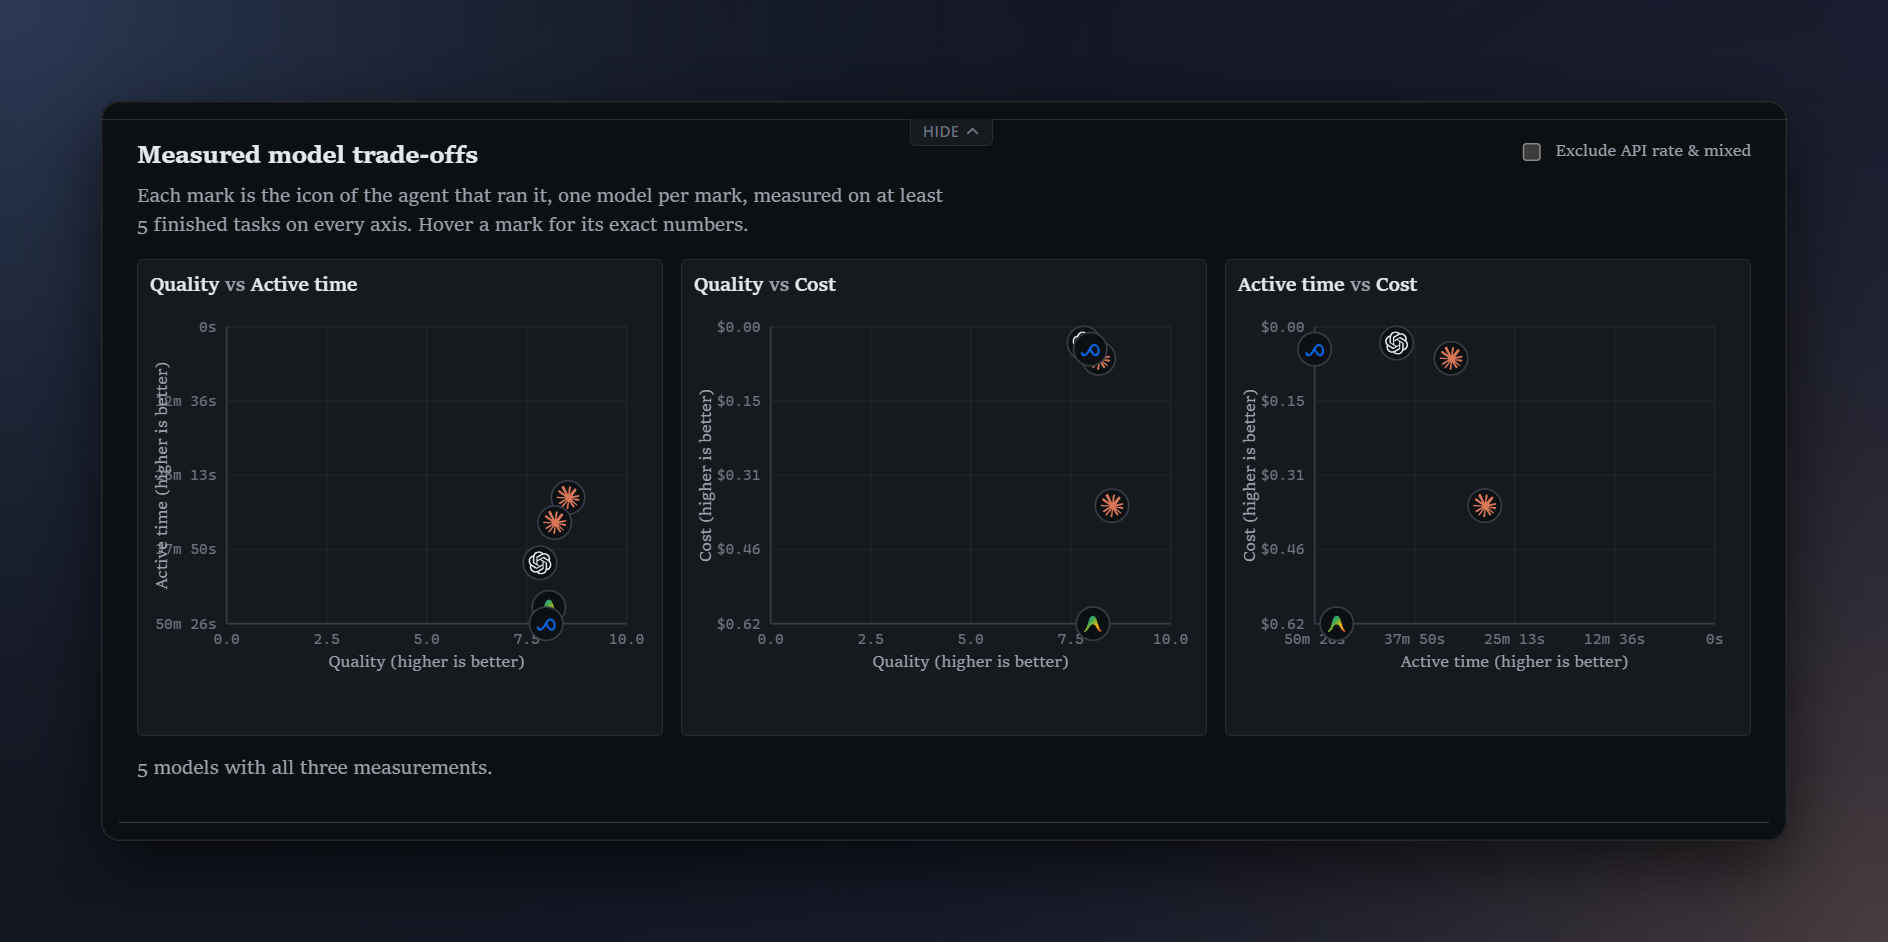
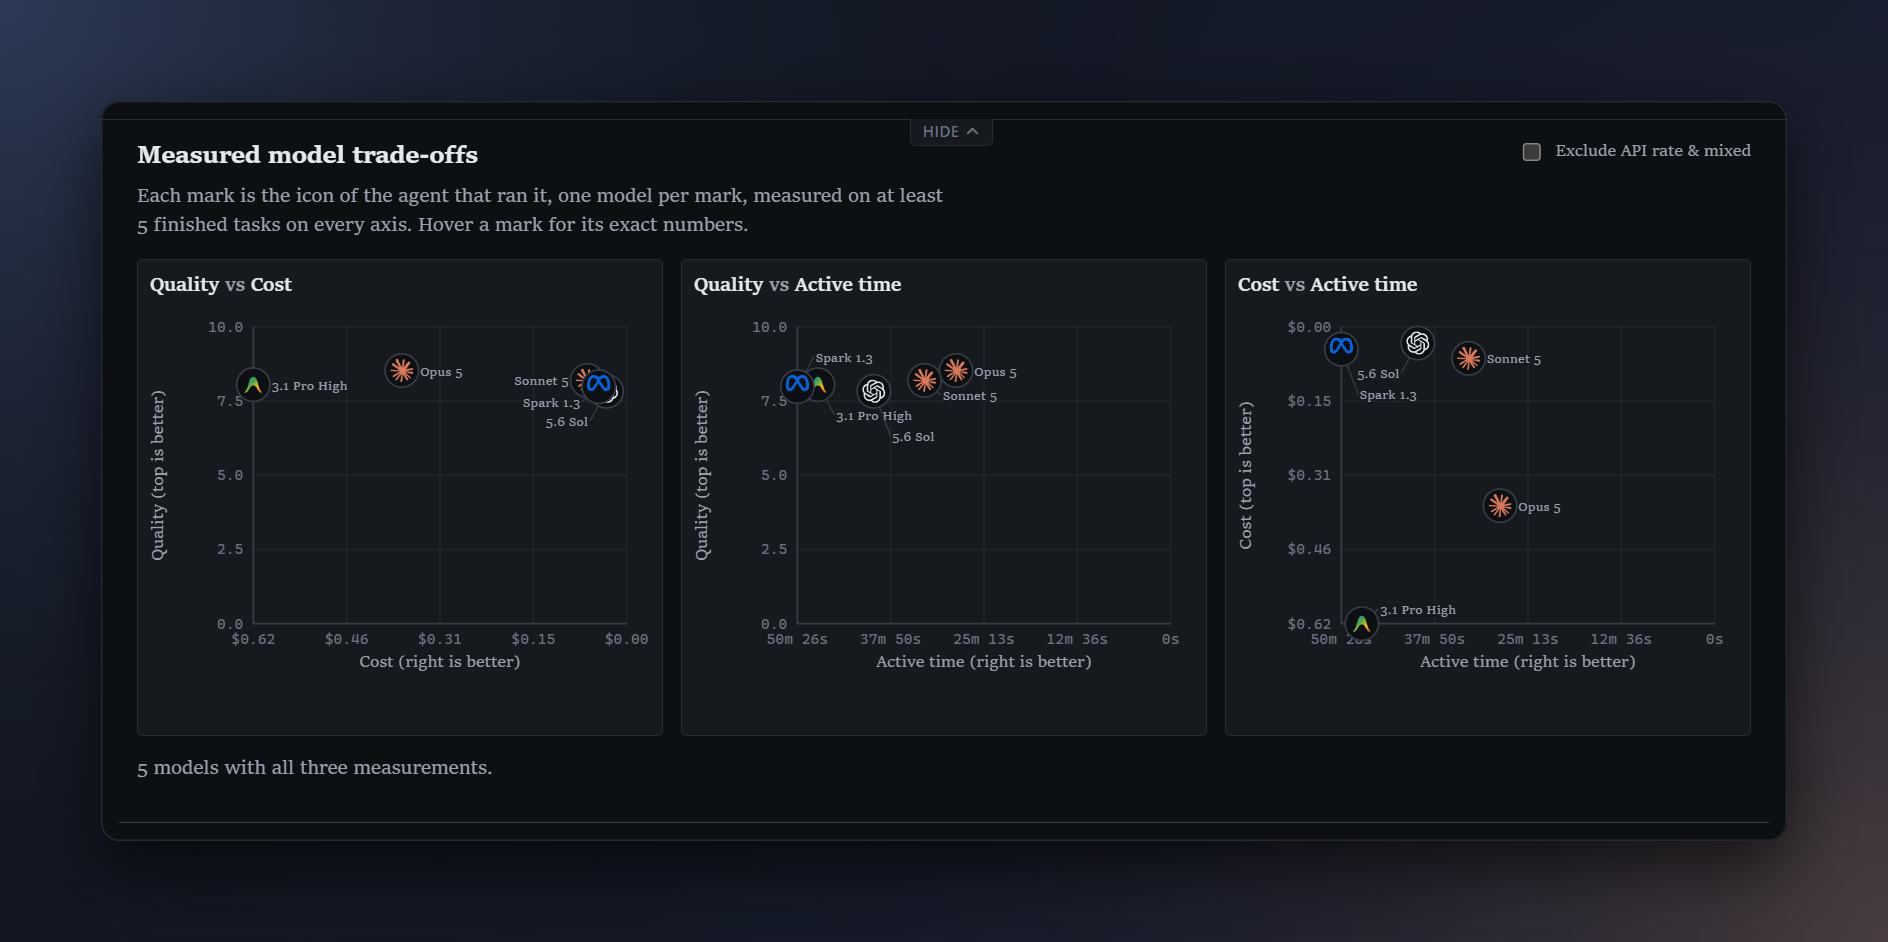
Statistics trade-off scatters put quality on y and active time on x (t651)
The three scatters now read Quality vs Cost, Quality vs Active time and
Cost vs Active time, each titled y vs x. Regenerated docs/images/tradeoffs.png.

diff --git a/src/renderer/src/components/Statistics.tsx b/src/renderer/src/components/Statistics.tsx
@@ -789,7 +789,8 @@ export function ScatterPlot({
   const [hovered, setHovered] = useState<string | null>(null)
   const width = 300
   const height = 220
-  // ⚠ Wide enough for a duration tick (`27m 31s`, ~38px of 9px mono) to clear the rotated axis title.
+  // ⚠ Wide enough for a y tick to clear the rotated axis title, and for half a duration tick
+  // (`50m 26s`, ~38px of 9px mono) centred on the origin — an inverted axis puts its worst value there.
   const marginLeft = 62
   const marginRight = 14
   const marginTop = 12
@@ -811,14 +812,14 @@ export function ScatterPlot({
     <div className="scatter-plot-box">
       <div className="scatter-plot-head">
         <span className="scatter-plot-title">
-          {AXIS_TITLE[xAxis]} <span className="dim">vs</span> {AXIS_TITLE[yAxis]}
+          {AXIS_TITLE[yAxis]} <span className="dim">vs</span> {AXIS_TITLE[xAxis]}
         </span>
       </div>
       <svg
         className="scatter-plot-svg"
         viewBox={`0 0 ${width} ${height}`}
         role="img"
-        aria-label={`${AXIS_TITLE[xAxis]} against ${AXIS_TITLE[yAxis]}, one mark per model`}
+        aria-label={`${AXIS_TITLE[yAxis]} against ${AXIS_TITLE[xAxis]}, one mark per model`}
       >
         <g aria-hidden>
           {xTicks.map((t, i) => (
@@ -954,9 +955,11 @@ export function ScatterPlot({
   )
 }
 
+/** ⭐ Quality is the vertical axis wherever it appears and active time the horizontal one (2026-09-23),
+ *  so each title reads the conventional way round: *y* vs *x*. */
 const SCATTER_PAIRS: Array<{ x: Axis; y: Axis }> = [
-  { x: 'quality', y: 'cost' },
-  { x: 'quality', y: 'velocity' },
+  { x: 'cost', y: 'quality' },
+  { x: 'velocity', y: 'quality' },
   { x: 'velocity', y: 'cost' }
 ]
 

diff --git a/src/renderer/src/components/Statistics.test.tsx b/src/renderer/src/components/Statistics.test.tsx
@@ -162,8 +162,8 @@ describe('measuredModelPoints', () => {
  * The trade-off scatters' drawing, not only their arithmetic.
  *
  * ⭐ Retired 2026-09-14: the earlier rotatable 3D plot was reported confusing to read and hard to
- * interact with, and is replaced by three flat x/y scatters — (quality, velocity), (quality, cost)
- * and (velocity, cost) — each readable without dragging anything.
+ * interact with, and is replaced by three flat y/x scatters — quality against cost, quality against
+ * active time and cost against active time — each readable without dragging anything.
  *
  * ⚠ `renderToStaticMarkup`, because the suites run with `environment: 'node'` and there is no DOM to
  * mount into. It is enough for what is being claimed: that all three scatters render, one mark per
@@ -234,7 +234,13 @@ describe('the trade-off scatters draw one mark per model on every pair of axes',
       [...markup.matchAll(/class="scatter-plot-title">([^<]+)<span[^>]*>vs<\/span> ([^<]+)/g)].map((match) =>
         `${match[1]!.trim()} vs ${match[2]!.trim()}`
       )
-    ).toEqual(['Quality vs Cost', 'Quality vs Active time', 'Active time vs Cost'])
+    ).toEqual(['Quality vs Cost', 'Quality vs Active time', 'Cost vs Active time'])
+  })
+
+  /** ⭐ Quality is always the vertical axis and active time always the horizontal one (2026-09-23). */
+  it('puts quality on the y axis and active time on the x axis', () => {
+    const titles = [...markup.matchAll(/class="scatter-plot-axis-label"[^>]*>([^<(]+)\(/g)].map((m) => m[1]!.trim())
+    expect(titles).toEqual(['Cost', 'Quality', 'Active time', 'Quality', 'Active time', 'Cost'])
   })
 
   /** ⛔ Two models measured on all three axes is two marks per scatter, six in total. */

diff --git a/docs/ui.md b/docs/ui.md
@@ -75,7 +75,7 @@ thing entirely. See [`glossary.md`](glossary.md).
 | `Project` `ProjectSettings` `Projects` | the project routes and the policy tier. ⭐ `Project.rootExists` is read fresh on every `project.list` (t514): a directory moved or renamed outside Warmstart (`c:\Dev\magic_writer` → `c:\Dev\inkland`) shows a banner on the project header naming the missing path and lets the operator point the same project id at its new location (`project.relocate`), keeping its tasks and history rather than losing them to a re-add. The path field is `NewProject`'s shared `PathField` (t517): an OS folder picker beside the text input, typing still works, and the button hides on a remote target the same way it does in the add-project wizard |
 | `NewProject` | the add-project wizard: three steps, one modal, `lib/newproject.ts` holds its rules |
 | `RoutingModel` `RoutingOverview` `QualityModel` `CostModel` `VelocityModel` `ModelsModel` `Math` | the routing model, written up as a paper: abstract, contents, five numbered sections, KaTeX for the arithmetic |
-| `Statistics` | what finished tasks actually cost, took and scored — three tabs, one RPC, a window control. ⭐ `TradeoffPlots` draws the three-way trade-off as three flat x/y scatters — (quality, velocity), (quality, cost), (velocity, cost) — replacing an earlier rotatable 3D plot reported confusing to read and hard to interact with (2026-09-14) |
+| `Statistics` | what finished tasks actually cost, took and scored — three tabs, one RPC, a window control. ⭐ `TradeoffPlots` draws the three-way trade-off as three flat scatters — quality vs cost, quality vs active time, cost vs active time (quality always *y*, active time always *x*, 2026-09-23) — replacing an earlier rotatable 3D plot reported confusing to read and hard to interact with (2026-09-14) |
 | `LooseEnds` | work that exists and is going nowhere → [`landing.md`](landing.md) |
 | `Doctor` | which required/conditional host tools and agent CLIs were found, who is signed in, how old each reading is, what is unverifiable, and which projects' directories are missing |
 | `WelcomeTour` | a per-display, first-launch three-step guide with real screenshots (`src/renderer/src/assets/welcome/*.png`, captured over a fictional fleet by `scripts/generate-tour-assets.mjs`; regenerate when the wizard, Workers card or composer changes) and prev/next onboarding navigation to introduce adding a project, adding a worker, and filing a task; completing or skipping it records `warmstart.welcomeComplete` in guarded `localStorage` |
@@ -211,8 +211,9 @@ clean has graded has an empty distribution and no bar — an ungraded model has 
 a short one.
 
 ⭐ **Statistics also has a trade-off section, `TradeoffPlots`** (`Statistics.tsx`), above its three
-tabs: three flat x/y scatters — quality against cost, quality against active time, and active time
-against cost — each plotting only an adapter/model pair with measured price, active time and clean
+tabs: three flat scatters — quality against cost, quality against active time, and cost against
+active time, with quality always the vertical axis and active time always the horizontal one
+(2026-09-23) — each plotting only an adapter/model pair with measured price, active time and clean
 quality evidence, so a missing value is never drawn as a deliberate coordinate. ⭐ This replaces an
 earlier single rotatable 3D scatter (retired 2026-09-14, reported confusing to read and hard to
 interact with); a flat scatter has a position a reader can recover without dragging anything. This is

diff --git a/HANDOFF.md b/HANDOFF.md
@@ -26,6 +26,9 @@ remaining prepaid dollars per hour to reset (`prepaid.ts`): the same $3.68 allow
 
 ## Closed in this cleanup
 
+- **Statistics trade-off scatters put quality on *y* and active time on *x* (t651, 2026-09-23).**
+  `SCATTER_PAIRS` now draws Quality vs Cost, Quality vs Active time and Cost vs Active time, titled
+  *y* vs *x*; `docs/images/tradeoffs.png` regenerated. `docs/ui.md`.
 - **Trunk conversations were told to commit on a task branch that never existed (t649 ← t648,
   2026-09-23).** Commit instruction, conversation contract and `land_work` reply now have trunk
   variants (no branch, no squash); pull-request refused up front; `pendingWorkFor` reads the root.
@@ -35,11 +38,6 @@ remaining prepaid dollars per hour to reset (`prepaid.ts`): the same $3.68 allow
   (1) Unblended reasoning effort from Antigravity model identifiers (`gemini-3.8-flash-high` → `gemini-3.8-flash`) in `costmodels/google.antigravity.2026-08.json` and benchmarks, enabling `selectableEffort: true` in `antigravity-cli.ts` with `--effort low|medium|high` instead of blending effort into model IDs.
   (2) Moved `Summary model` into a checkbox column of the inline `ModelTable` routable model matrix, removing the outer table column and setting selector from `Workers.tsx` (12-column layout).
   (3) Added database migration 82 in `db.ts` to unblend existing Antigravity worker rows in `workers` table (`model_routes_json`, `default_models_json`, `default_model`/`effort`, `grading_model`/`effort`, `summarising_model`, and `judgment_model`/`effort`). `docs/data-model.md`, `docs/adapters.md`, `docs/ui.md`.
-- **Four Settings > Workers / composer layout bugs (t636, 2026-09-22).** (1) A worker's per-pool
-  default-model buttons (Antigravity's Gemini / Claude·GPT) no longer stretch to the card's full
-  width — capped like the single-model picker (`app.css`). (2) Routable models render as wrapping
-  chips instead of one ellipsis-truncated line. (3) The sidebar's project row now stays highlighted
-  while a thread is open. (4) The New Task composer's Effort pill hides itself for Auto Model. `docs/ui.md`.
 - **`/release rc` publishes the trunk itself rather than handing the refusal back (2026-09-22).**
   The base gate is unchanged and still refuses all three unsafe bases; what changed is the skill.
   New step 0.5 runs `check-release-base.mjs` *before* the notes are written, and when the only
